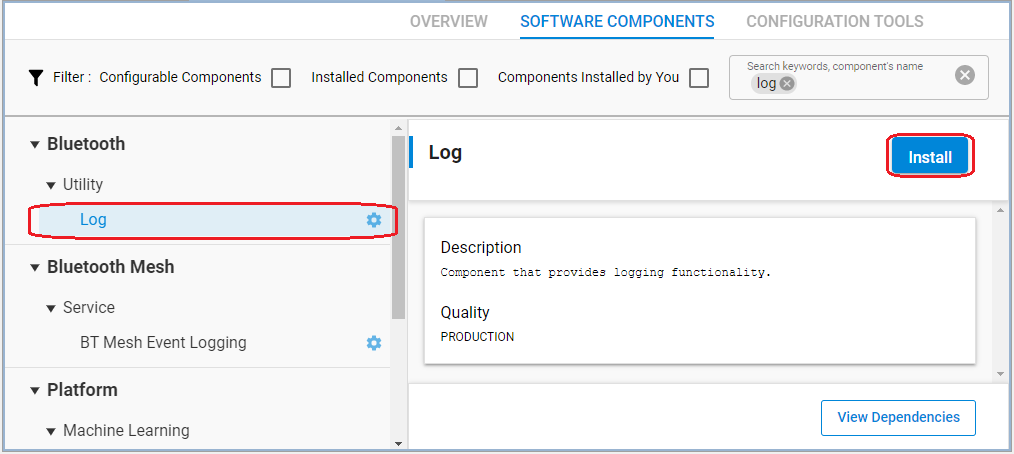
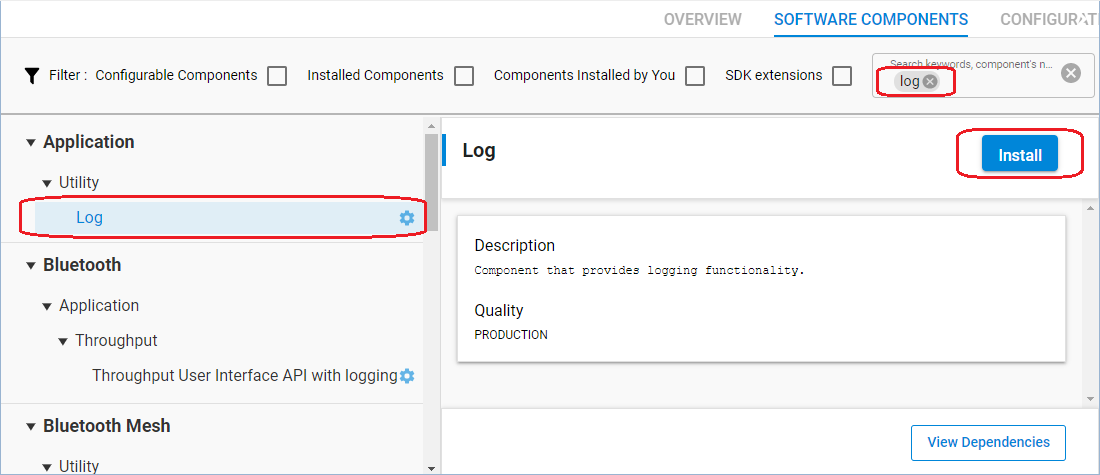
fixing two readme files

Changed region(s): [[0.0, 0.0, 1.0, 1.0]]

diff --git a/bluetooth_controlling_LEDs_from_Smartphone/README.md b/bluetooth_controlling_LEDs_from_Smartphone/README.md
@@ -161,7 +161,7 @@ All of the above is implemented in the attached app.c file. After setting up the
     ![board control configure](images/board_control_1.png)  
     ![board control configure](images/board_control_2.png)  
 
-    - Install the **Log** component (found under Bluetooth > Utility group)
+    - Install the **Log** component (found under Application > Utility group)
     ![add log](images/add_log.png)  
 
 4. Config **GATT** using **Bluetooth GATT Configurator** tool.

diff --git a/thermometer_example_with_efr32_internal_temperature_sensor/readme.md b/thermometer_example_with_efr32_internal_temperature_sensor/readme.md
@@ -52,6 +52,10 @@ GSDK v3.1.1
 
 3. Open the .slcp file again. Select the "SOFTWARE COMPONENTS" tab and do the following changes:
 
+- Install the **ADC** component (found under Platform > Peripheral).
+
+![](images/install_adc.png)
+
 - Install **IO Stream: USART** component with the default instance name: **vcom**.
 
 ![](images/install_usart.png)
